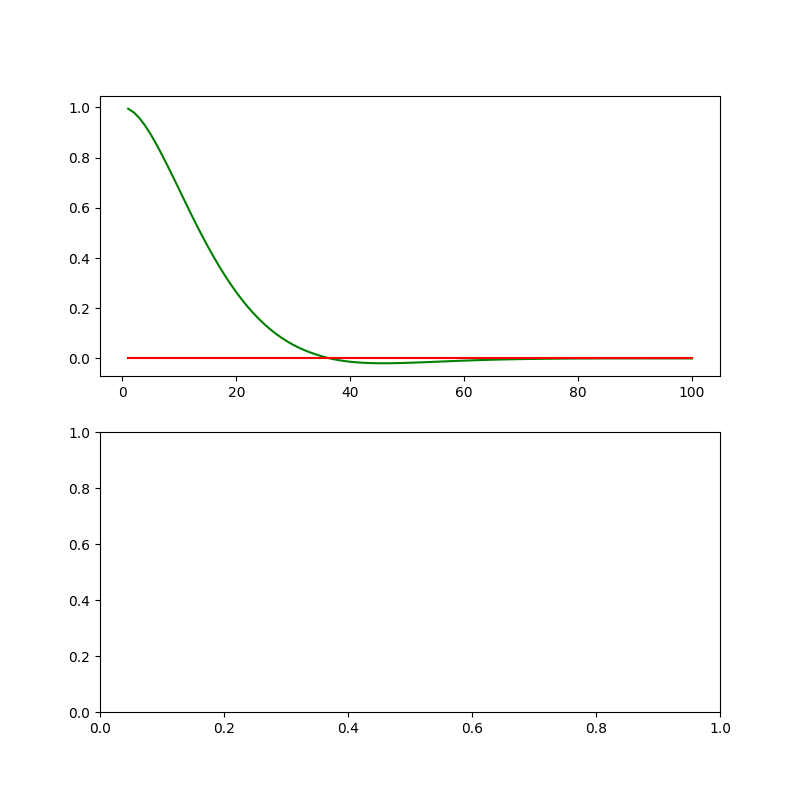
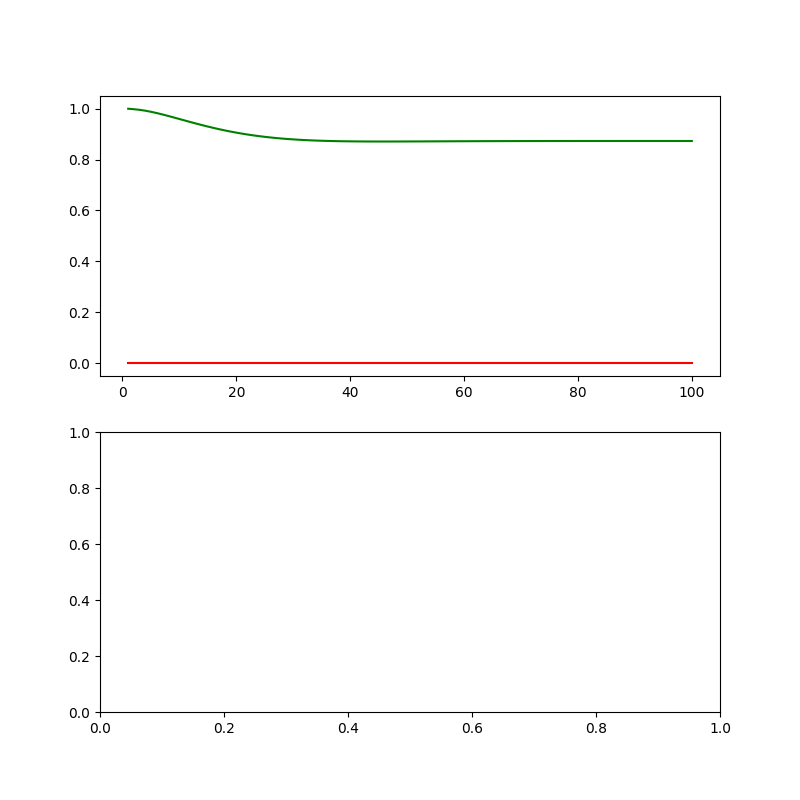
Adding drift to test PD controller.

diff --git a/control/pdcontroller.py b/control/pdcontroller.py
@@ -16,6 +16,7 @@
 import random
 import numpy as np
 import matplotlib.pyplot as plt
+import math
 
 # ------------------------------------------------
 # 
@@ -125,11 +126,12 @@ robot.set(0, 1, 0)
 # where differential crosstrack error (diff_CTE)
 # is given by CTE(t) - CTE(t-1)
 #
-def run(robot, tau_p, tau_d, n=100, speed=1.0):
+def run(robot, tau_p, tau_d, drift = 0, n=100, speed=1.0):
     x_trajectory = []
     y_trajectory = []
     CTE = robot.y - 0
     diff_CTE = 0
+    robot.set_steering_drift(drift)
 
     for i in range(n):
         prevCTE = CTE
@@ -150,5 +152,9 @@ def saveFigure(x_trajectory, y_trajectory, fileName):
     ax1.plot(x_trajectory, np.zeros(n), 'r', label='reference')
     fig.savefig(fileName)
 
-x_trajectory, y_trajectory = run(robot, 0.2, 3.0)
+drift = (10.0/180.0) * math.pi
+x_trajectory, y_trajectory = run(robot, 0.2, 3.0, drift)
 saveFigure(x_trajectory, y_trajectory, "PDcontroller_023")
+
+x_trajectory, y_trajectory = run(robot, 0.2, 0, drift)
+saveFigure(x_trajectory, y_trajectory, "PDcontroller_020")
